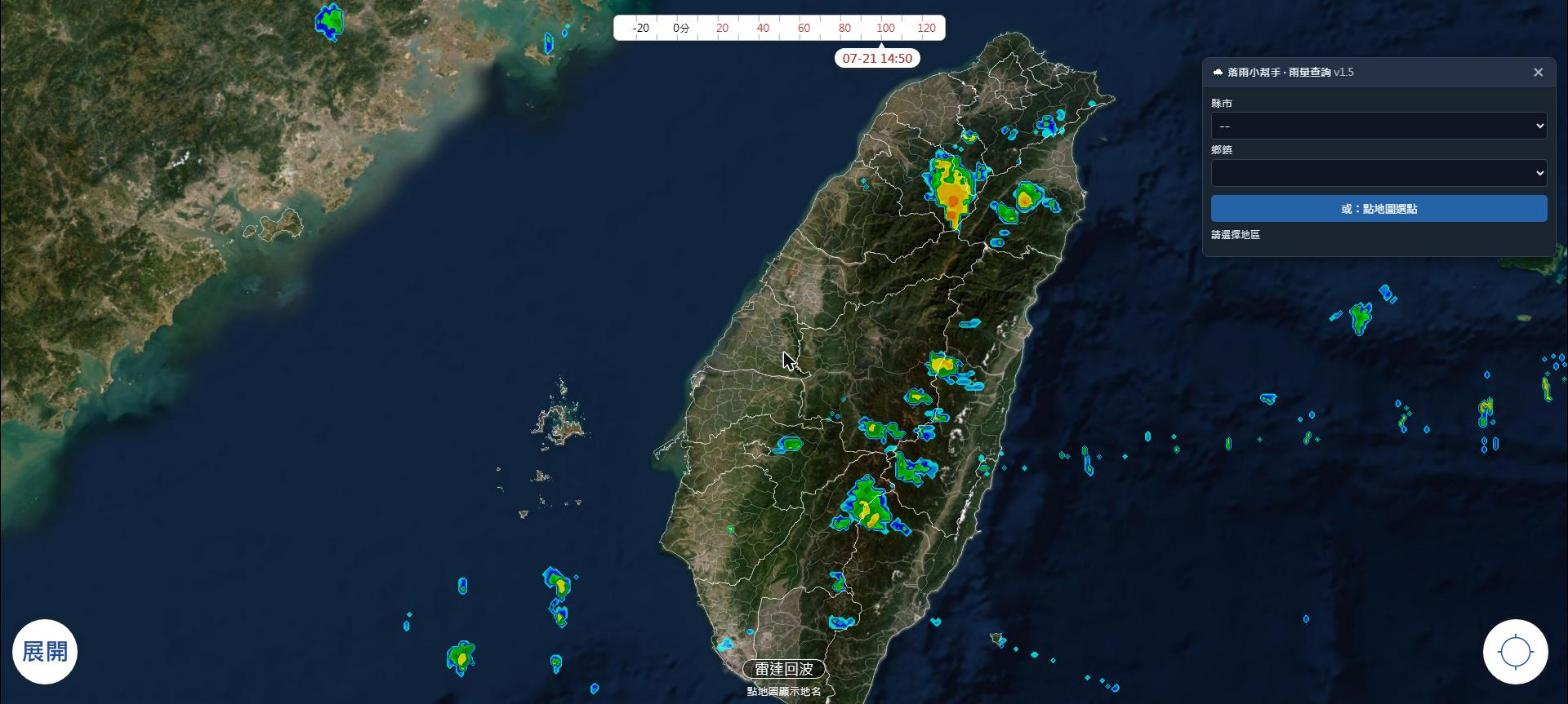
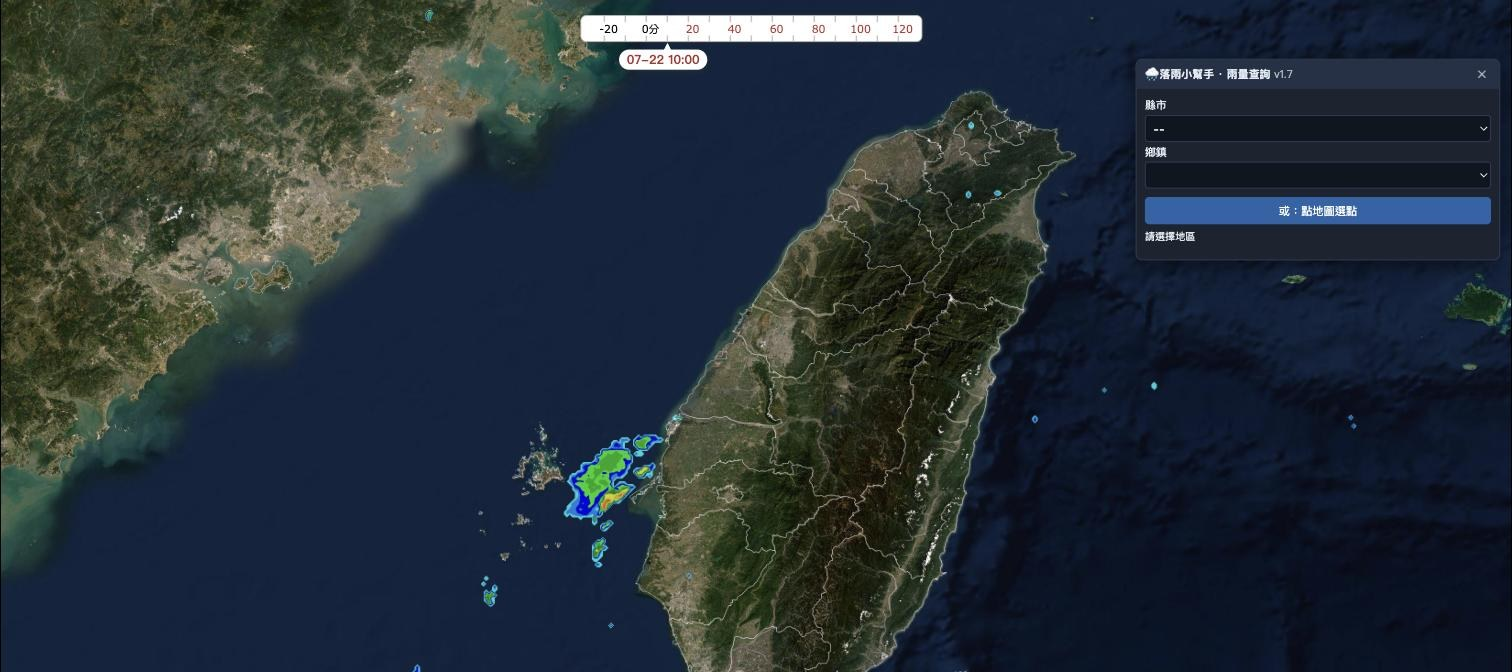
docs: README 版本與截圖更新到 v1.7
- 版本字樣 v1.6 → v1.7，註明表格會隨真實時間自動更新
- 新增「4. 表格隨真實時間自動更新（v1.7 新增）」章節，後續章節順延
- 功能特色表新增「自動更新」一列
- 01/02/03 以 v1.7 面板重新擷取，新增 08-auto-update.jpg（面板特寫）
- 04~07（紅框放大、模式切換、豪雨分級、點地圖）維持原圖

diff --git a/README.md b/README.md
@@ -4,7 +4,7 @@
 
 以 **Bookmarklet（書籤小工具）** 形式交付，注入官網頁面後即可使用，無需安裝外掛、無需外部圖資。
 
-> 目前版本 **v1.6**。完整開發脈絡、踩雷紀錄、每輪迭代細節請見 [`record.md`](./record.md)。
+> 目前版本 **v1.7**（表格會隨真實時間自動更新，不再是選取當下的靜態快照）。完整開發脈絡、踩雷紀錄、每輪迭代細節請見 [`record.md`](./record.md)。
 
 ---
 
@@ -44,19 +44,27 @@
 
 ![紅框放大](docs/screenshots/04-red-outline-zoom.png)
 
-### 4. 「雷達回波」／「雨量」模式切換，紅框自動重繪
+### 4. 表格隨真實時間自動更新（v1.7 新增）
+
+選定鄉鎮後，表格**不再是選取當下的靜態快照，而會跟著真實時間自動前進**：黃底「現在」列與「實況／預報」分隔線隨時間往下移；跨過每 10 分鐘窗口邊界時，工具會在背景抓取官網新影像、整個時間窗往前滑一格（舊格命中快取，只下載新格，過程不清空表格、不閃爍）。面板按 ✕ 隱藏時暫停更新，重新開啟自動恢復並補上落後進度。
+
+![表格自動更新](docs/screenshots/08-auto-update.jpg)
+
+圖中「現在」列正落在「實況／預報」交界（此例嘉義縣東石鄉當下無降雨）；隨著時間經過，這條交界會自動下移、新一格資料自動補入，無需重新選取。表格的上下限也與官網時間軸同步前進。
+
+### 5. 「雷達回波」／「雨量」模式切換，紅框自動重繪
 
 官網左下角按鈕可切換底圖模式，兩者座標系不同（實測縮放比 1.81 倍）。落雨小幫手會偵測模式切換並**自動重新計算紅框位置**，不會跑位。
 
 ![模式切換自動重繪](docs/screenshots/05-mode-switch-redraw.jpg)
 
-### 5. 有雨時的完整分級展示
+### 6. 有雨時的完整分級展示
 
 換一個實際下雨的鄉鎮（新竹縣尖石鄉），可看到表格依 17 色階雨量色盤，分出零星/毛雨、小雨、中雨、豪雨等等級色塊，並附上 10 分鐘雨量區間、峰值、覆蓋率（該鄉鎮多邊形範圍內有雨的面積比例）。摘要列會提示「目前正在下雨」與最強時段。
 
 ![豪雨等級表格](docs/screenshots/06-heavy-rain-table.jpg)
 
-### 6. 點地圖選點
+### 7. 點地圖選點
 
 除了下拉選單，也可以按「點地圖選點」直接在地圖上點擊任一位置，工具會換算成經緯度並比對 367 條鄉鎮多邊形，自動命中對應鄉鎮（此例點擊花蓮山區，命中花蓮縣萬榮鄉）。
 
@@ -72,6 +80,7 @@
 | 地點輸入 | 縣市→鄉鎮下拉選單，或直接點地圖選點 |
 | 選區視覺回饋 | 所選鄉鎮在地圖上以紅色外框圈起，模式切換／視窗縮放自動重繪 |
 | 時間範圍 | 過去觀測 3 格 + 未來預報 13 格，每格 10 分鐘（共 16 格） |
+| 自動更新 | 選好鄉鎮後表格隨真實時間前進，跨每 10 分鐘邊界自動抓官網新影像、時間窗前滑（v1.7） |
 | 查詢速度 | 並行載入 + 快取，約 1 秒（重查同鄉鎮更快） |
 | 摘要列 | 「最早降雨時間」與「最強時段」一目了然 |
 | 覆蓋率 | 依鄉鎮實際多邊形遮罩統計，不用方形視窗近似，沿海／小面積鄉鎮也準確 |
